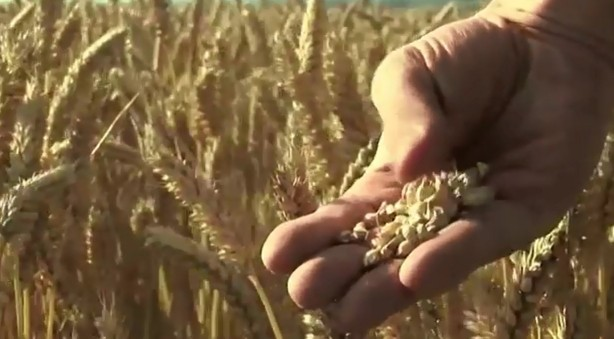
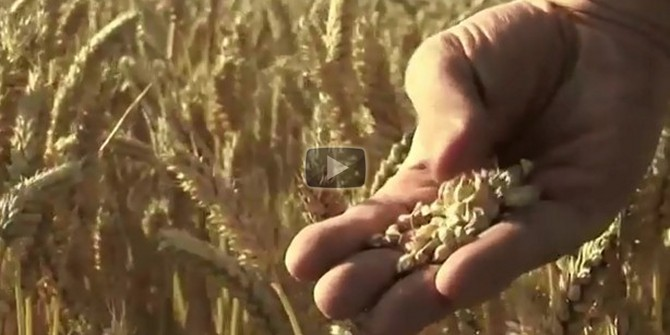
Implemented Problem page.

diff --git a/src/pages/problem/problem.html b/src/pages/problem/problem.html
@@ -10,5 +10,91 @@
   </ion-navbar>
 </ion-header>
 <ion-content>
+  <main>
+    <!-- Cleanse Image -->
+    <section>
+      <img sizes="(max-width: 1400px) 100vw" src="../../assets/imgs/cleanse-robyn-obrien/cleanse-robyn-obrien-1400.jpg" alt="Cleanse for a Healthier Life"
+        srcset="
+          ../../assets/imgs/cleanse-robyn-obrien/cleanse-robyn-obrien-400.jpg 400w,
+          ../../assets/imgs/cleanse-robyn-obrien/cleanse-robyn-obrien-854.jpg 854w,
+          ../../assets/imgs/cleanse-robyn-obrien/cleanse-robyn-obrien-1189.jpg 1189w,
+          ../../assets/imgs/cleanse-robyn-obrien/cleanse-robyn-obrien-1400.jpg 1400w" />
+    </section>
+    <article>
+      <ion-grid>
+        <!-- Fed Up -->
+        <ion-row>
+          <ion-col col-12 col-lg id="fedUp1">
+            <img src="../../assets/imgs/misc/fed-up.jpg" alt="Fed Up Video" (click)="openVideoModal('fed-up')" />
+          </ion-col>
+          <ion-col col-12 col-lg class="col-right">
+            <h1>FED UP</h1>
+            <p>
+              <span class="title">Fed Up</span> focuses on the OVERUSE OF SUGAR in our food supply by showing how the first dietary guidelines
+              issued by the U.S. government 30 years ago overlooked the role of dietary sugar in increasing risks of obesity,
+              diabetes, and its associated ill-health outcomes, particularly in children.</p>
+          </ion-col>
+          <ion-col col-12 col-lg id="fedUp2">
+            <img src="../../assets/imgs/misc/fed-up.jpg" alt="Fed Up Video" (click)="openVideoModal('fed-up')" />
+          </ion-col>
+        </ion-row>
+
+        <!-- Food Matters -->
+        <ion-row>
+          <ion-col col-12 col-lg id="foodMatters1">
+            <img src="../../assets/imgs/misc/food-matters.jpg" alt="Food Matters Video" (click)="openVideoModal('food-matters')" />
+          </ion-col>
+          <ion-col col-12 col-lg class="col-left">
+            <h1>FOOD MATTERS</h1>
+            <p>
+              <span class="title">Food Matters</span> sheds a spotlight on the trillion dollar worldwide sickness industry and how OVER FARMING
+              and BIG PHARMA has had a detrimental impact on our health. Putting the interest of PRIVATE PROFIT over PUBLIC
+              HEALTH.
+            </p>
+          </ion-col>
+          <ion-col col-12 col-lg id="foodMatters2">
+            <img src="../../assets/imgs/misc/food-matters.jpg" alt="Food Matters Video" (click)="openVideoModal('food-matters')" />
+          </ion-col>
+        </ion-row>
+
+        <!-- The Unhealthy Truth -->
+        <ion-row>
+          <ion-col col-12 col-lg id="unhealthyTruth1">
+            <img src="../../assets/imgs/misc/robyn.jpg" alt="The Unhealthy Truth Video" (click)="openVideoModal('unhealthy-truth')" />
+          </ion-col>
+          <ion-col col-12 col-lg class="col-right">
+            <h1>THE UNHEALTHY TRUTH</h1>
+            <p>
+              <span class="title">The Unhealthy Truth</span> is a call to action that shows how each of us can do our part and keep our own families
+              safe. Author Robyn O’Brien turns to accredited research conducted in Europe that confirms the toxicity of America’s
+              food supply, and investigates the relationship between Big Food and Big Money that has ensured that the United
+              States is one of the only developed countries in the world to allow hidden toxins in our food—toxins that are
+              increasingly being blamed for the alarming recent increases in allergies, A.D.H.D., cancer, and asthma among
+              our children.</p>
+          </ion-col>
+          <ion-col col-12 col-lg id="unhealthyTruth2">
+            <img src="../../assets/imgs/misc/robyn.jpg" alt="The Unhealthy Truth Video" (click)="openVideoModal('unhealthy-truth')" />
+          </ion-col>
+        </ion-row>
+
+        <!-- Why Diets Are Failing Us -->
+        <ion-row>
+          <ion-col col-12 col-lg id="dietsFailing1">
+            <img src="../../assets/imgs/misc/diets-failing.jpg" alt="Why Diets Are Failing Us Video" (click)="openVideoModal('diets-failing')" />
+          </ion-col>
+          <ion-col col-12 col-lg class="col-left">
+            <h1>WHY DIETS ARE FAILING US</h1>
+            <p>Peter Greenlaw is the author of the best-selling book,
+              <span class="title">Why Diets are failing us.</span> He discusses the challenges of Toxicity, Deficiency and GMO’s and their implications
+              on our health. He also highlights the alarming concern of how there are over 100,000 chemicals in commercial
+              use in North America today and less than 560 have ever been tested for human exposure or consumption.</p>
+          </ion-col>
+          <ion-col col-12 col-lg id="dietsFailing2">
+            <img src="../../assets/imgs/misc/diets-failing.jpg" alt="Why Diets Are Failing Us Video" (click)="openVideoModal('diets-failing')" />
+          </ion-col>
+        </ion-row>
+      </ion-grid>
+    </article>
+  </main>
   <get-footer></get-footer>
 </ion-content>

diff --git a/src/pages/problem/problem.ts b/src/pages/problem/problem.ts
@@ -1,5 +1,5 @@
 import { Component } from "@angular/core";
-import { IonicPage, NavController, NavParams } from "ionic-angular";
+import { IonicPage, NavController, ModalController } from "ionic-angular";
 
 @IonicPage()
 @Component({
@@ -7,5 +7,49 @@ import { IonicPage, NavController, NavParams } from "ionic-angular";
   templateUrl: "problem.html"
 })
 export class ProblemPage {
-  constructor(public navCtrl: NavController, public navParams: NavParams) {}
+  constructor(
+    public navCtrl: NavController,
+    private modalCtrl: ModalController
+  ) {}
+
+  openVideoModal(video: string) {
+    var data: any;
+
+    switch (video) {
+      case "fed-up":
+        data = {
+          name: "Fed Up",
+          url:
+            "https://firebasestorage.googleapis.com/v0/b/globalexecteam-2018.appspot.com/o/videos%2FFED-UP-Official-Trailer-YouTube-480p.mp4?alt=media&token=9f1c7ac9-0ad6-4445-9246-e7221bf4d1f3"
+        };
+        break;
+
+      case "food-matters":
+        data = {
+          name: "Food Matters",
+          url:
+            "https://firebasestorage.googleapis.com/v0/b/globalexecteam-2018.appspot.com/o/videos%2FFood-Matters-Official-Trailer-YouTube-360p.mp4?alt=media&token=f9979ac5-c7e2-45f3-b195-373f6dbc2e11"
+        };
+        break;
+
+      case "unhealthy-truth":
+        data = {
+          name: "The Unhealthy Truth",
+          url:
+            "https://firebasestorage.googleapis.com/v0/b/globalexecteam-2018.appspot.com/o/videos%2FRobyn-O39Brien-_-TEDxAustin-2011-YouTube-360p.mp4?alt=media&token=13dbeda6-9c44-4cfd-a827-d588c4222738"
+        };
+        break;
+
+      case "diets-failing":
+        data = {
+          name: "Why Diets Fail",
+          url:
+            "https://firebasestorage.googleapis.com/v0/b/globalexecteam-2018.appspot.com/o/videos%2FWhy-Diets-Are-Failing-Us---YouTube-(480p).mp4?alt=media&token=4a612f00-e307-48b1-a85d-5955e604e8c9"
+        };
+        break;
+    }
+
+    const myModal = this.modalCtrl.create("VideoModalPage", data);
+    myModal.present();
+  }
 }

diff --git a/src/pages/problem/problem.scss b/src/pages/problem/problem.scss
@@ -1,3 +1,86 @@
 page-problem {
+  article {
+    max-width: 95vw;
+    margin-left: auto;
+    margin-right: auto;
+  }
 
+  main {
+    margin-bottom: 20px;
+  }
+
+  p {
+    text-align: justify;
+    letter-spacing: 0.1em;
+  }
+
+  ion-col img {
+    box-shadow: 0px 0px 30px black;
+  }
+
+  .title {
+    font-style: italic;
+  }
+
+  ion-row {
+    border-bottom: 1px solid #aaa;
+    margin-bottom: 5px;
+    padding-bottom: 20px;
+  }
+
+  #fedUp1,
+  #foodMatters1,
+  #unhealthyTruth1,
+  #dietsFailing1 {
+    display: none;
+  }
+
+  #fedUp2,
+  #foodMatters2,
+  #unhealthyTruth2,
+  #dietsFailing2 {
+    display: block;
+  }
+
+  @media (min-width: 768px) {
+    article {
+      max-width: 85vw;
+      margin-left: auto;
+      margin-right: auto;
+    }
+  }
+
+  @media (min-width: 992px) {
+    article {
+      max-width: 75vw;
+      margin-left: auto;
+      margin-right: auto;
+    }
+
+    ion-col img {
+      margin-top: 20px;
+    }
+
+    .col-right {
+      margin-left: 20px;
+    }
+
+    .col-left {
+      margin-right: 20px;
+    }
+
+    #fedUp1,
+    #foodMatters2,
+    #unhealthyTruth1,
+    #dietsFailing2 {
+      display: block;
+    }
+
+    #fedUp2,
+    #foodMatters1,
+    #unhealthyTruth2,
+    #dietsFailing1 {
+      display: none;
+    }
+  }
 }
